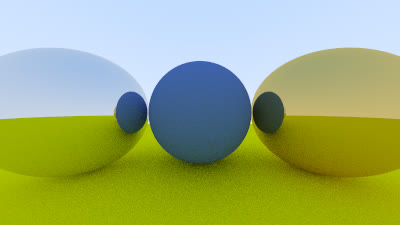
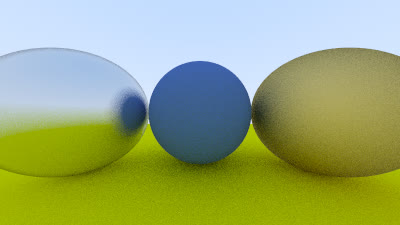
模糊反射

diff --git a/MyRayTracer/src/main.cpp b/MyRayTracer/src/main.cpp
@@ -13,8 +13,8 @@ int main()
 
 	auto materialGround = std::make_shared<Lambertian>(color(0.8f, 0.8f, 0.0f));
 	auto materialCenter = std::make_shared<Lambertian>(color(0.1f, 0.2f, 0.5f));
-	auto materialLeft = std::make_shared<Metal>(color(0.8f, 0.8f, 0.8f));
-	auto materialRight = std::make_shared<Metal>(color(0.8f, 0.6f, 0.2f));
+	auto materialLeft = std::make_shared<Metal>(color(0.8f, 0.8f, 0.8f), 0.3f);
+	auto materialRight = std::make_shared<Metal>(color(0.8f, 0.6f, 0.2f), 1.0f);
 
 	world.add(std::make_shared<Sphere>(vec3(0.0f, -100.5f, -1.0f), 100.0f, materialGround));
 	world.add(std::make_shared<Sphere>(vec3(0.0f, 0.0f, -1.2f), 0.5f, materialCenter));

diff --git a/MyRayTracer/src/Material.h b/MyRayTracer/src/Material.h
@@ -36,15 +36,17 @@ private:
 class Metal : public Material
 {
 public:
-	Metal(const color& albedo) : albedo(albedo) {}
+	Metal(const color& albedo, float fuzz) : albedo(albedo), fuzz(fuzz < 1 ? fuzz : 1) {}
 
 	bool Scatter(const Ray& rayIn, const HitPayload& payload, color& attenuation, Ray& scattered) const override {
 		vec3 reflected = reflect(rayIn.GetDirection(), payload.normal);
+		reflected = reflected.normalized() + (fuzz * randomUnit());
 		scattered = Ray(payload.p, reflected);
 		attenuation = albedo;
-		return true;
+		return dot(scattered.GetDirection(), payload.normal) > 0.0f;
 	}
 
 private:
 	color albedo;
+	float fuzz;
 };
